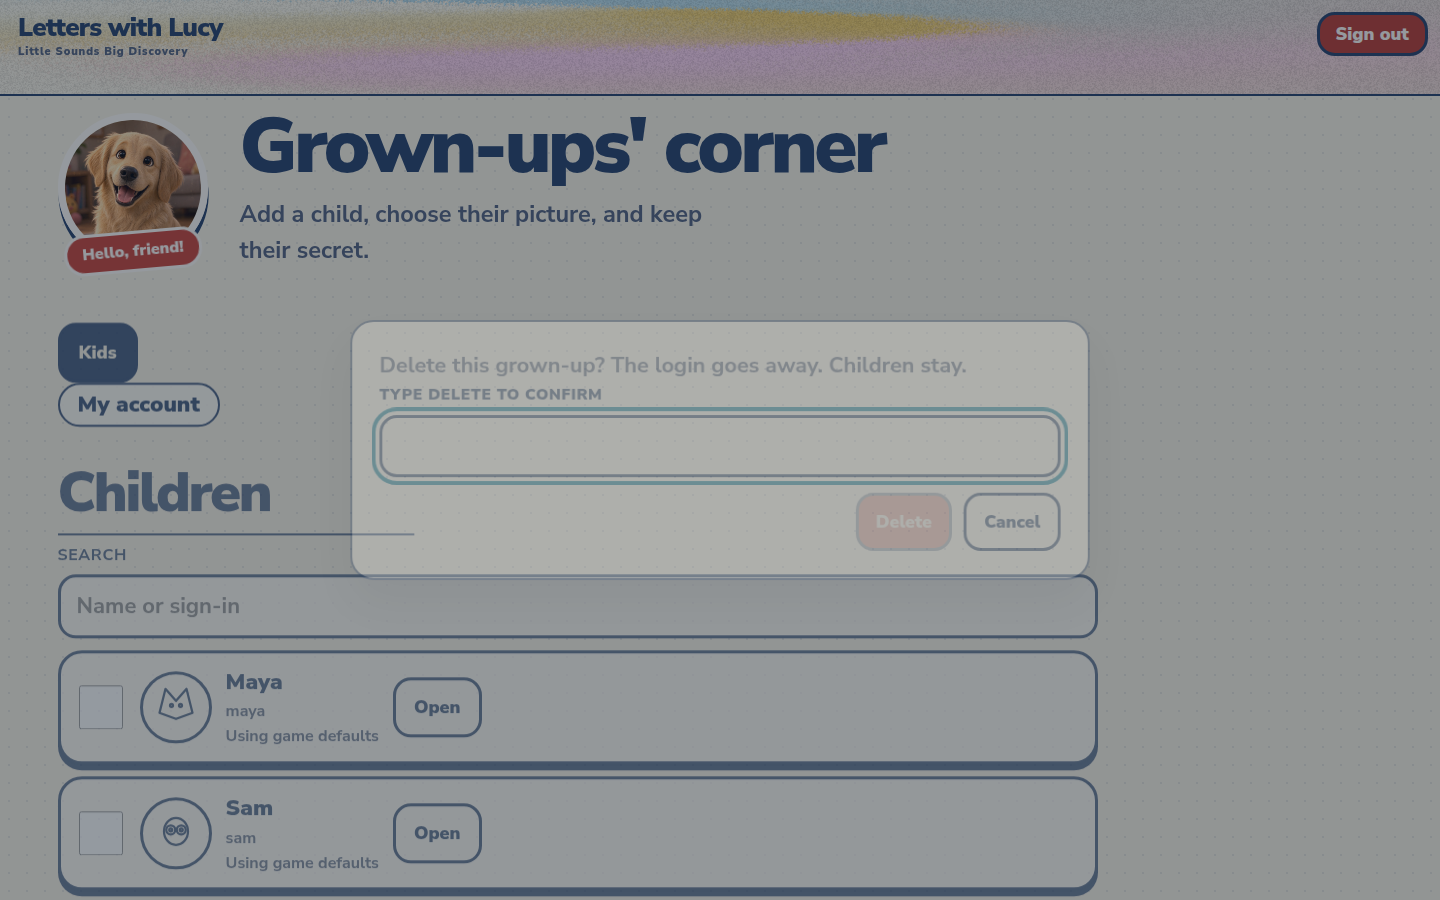
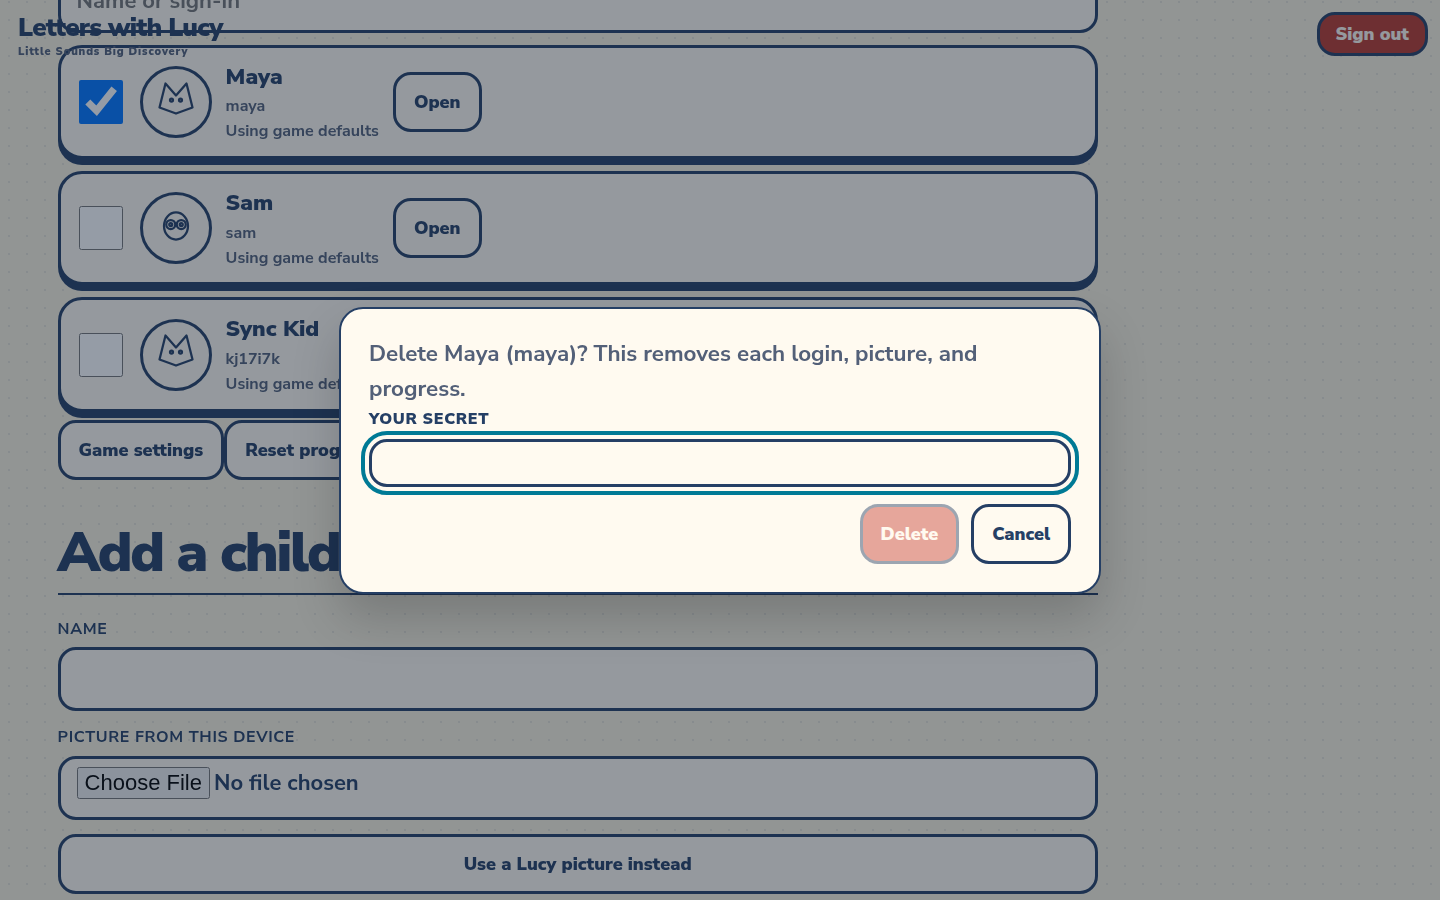
Record the password confirm and the layout check.
Ribbon Road's pink home and the 26-letter line match 0d01cc6. The pass report lists the secret step and the suites that passed.

diff --git a/reports/call-list-pass.md b/reports/call-list-pass.md
@@ -14,7 +14,7 @@ There is no Brandy profile and no Brandy auth user, before or after. Username an
 | My account | done | Own page at `grown-ups/account.html`. Name, sign-in name, secret, Lucy picture or upload, own progress, one confirm to reset. |
 | Game settings inside Kids | done | Same cream page. The label says `Editing: game defaults` or the children's names. SATPIN and vowels are the letter presets. |
 | Sign out | done | One fixed top-right control on grown-up pages. At 390 and 1440 it sits at y=12, 44px tall, and does not cover another button. It returns to `grown-ups/index.html`. |
-| Delete confirm | done | The phrase box is above Delete. Delete stays disabled until the typed value is `delete`. |
+| Delete confirm | done | Replaced in the risky-actions add-on. The password field is above the button. The button stays disabled until a secret is typed. |
 | Six Lucy pictures | done | garden, nap, mail, leap, wave, nudge. Square, face-centered, 256px, offered offline. Upload still works. Spares are not offered. |
 | Header picture | done | Narrow picture only. Theme chooser stays where it was. A child's picture opens a sheet that does not edit a name. A grown-up's picture links to My account. |
 | Layout picker | deferred | Bradley said leave it. Section 7 picker changes are not in this build. |
@@ -51,7 +51,9 @@ Children: **6 hours after sign-in**, from `session_marks.started_at`. Activity d
 - `ff8ac16` Add the cream kids desk, six Lucy pictures, and My account.
 - `9bab0ec` Play the three approved wrong-answer lines in turn.
 - `07c6524` Cover call-list permissions, session clocks, and reset epochs.
-- The commit that adds this report is the last one on `cursor/home-flow-ribbon` for this pass.
+- `1a4b98b` Record the call-list pass, with screenshots.
+- `50c01fc` Ask for the grown-up's own secret before a risky account change.
+- The commit that records this add-on follows `50c01fc`.
 
 Base confirmed before the first commit: local `HEAD`, `origin/cursor/home-flow-ribbon`, and `origin/rollback/pre-call-list-2026-10-20-cursor` were all `0d01cc60678b78e552d6498a6dba6eea0f5b5a35`.
 
@@ -63,7 +65,9 @@ Kids portal: [390×844](call-list/portal-kids-390x844.png), [768×1024](call-lis
 
 Grown-ups, master only: [390×844](call-list/portal-grownups-390x844.png), [768×1024](call-list/portal-grownups-768x1024.png), [1440×900](call-list/portal-grownups-1440x900.png), [1180×820](call-list/portal-grownups-1180x820.png), [1440×1080](call-list/portal-grownups-1440x1080.png), [1920×1080](call-list/portal-grownups-1920x1080.png).
 
-Also: [six pictures](call-list/portal-pictures.png), [game settings for Maya](call-list/portal-game-settings.png), [delete confirm at 390](call-list/portal-delete-confirm-390.png), [delete confirm at 1440](call-list/portal-delete-confirm-1440.png), [pick a child first](call-list/portal-need-pick.png), [My account](call-list/my-account-1440.png), [reset my progress](call-list/my-account-reset.png).
+Also: [six pictures](call-list/portal-pictures.png), [game settings for Maya](call-list/portal-game-settings.png), [password confirm at 390](call-list/portal-password-confirm-390.png), [password confirm at 1440](call-list/portal-password-confirm-1440.png), [password typed, Delete enabled](call-list/portal-password-ready-1440.png), [pick a child first](call-list/portal-need-pick.png), [My account](call-list/my-account-1440.png), [current secret](call-list/my-account-current-secret-1440.png), [reset my progress at 390](call-list/my-account-password-reset-390.png), [reset my progress at 1440](call-list/my-account-password-reset-1440.png).
+
+The earlier typed-word delete shots are the same files as the password confirm at 390 and 1440. The button in those shots is the faded Delete, because the secret field is empty.
 
 Game header: [390×844](call-list/game-chip-390x844.png), [1180×820](call-list/game-chip-1180x820.png), [1440×1080](call-list/game-chip-1440x1080.png), [1920×1080](call-list/game-chip-1920x1080.png), [grown-up chip 1180×820](call-list/game-chip-grownup-1180x820.png).
 
@@ -77,8 +81,11 @@ Headless, Chrome:
 - `tests/accounts_merge.cjs`: reset epoch replaces an older round, a same epoch counts once, settings stay, a merge with no epoch stays a union.
 - `tests/accounts_session.cjs`: fake clock. Exactly 30 minutes idle expires a grown-up. A click inside the window keeps them in. A child expires at 6 hours.
 - `tests/portal_rules.cjs`, `tests/home_flow.cjs`, `tests/grown_ups_smoke.cjs`: pass, including phone, tablet, chromebook, whiteboard, reduced motion, and dark.
-- `tests/call_list_live.cjs`: anonymous 401, Ada is not master, create-grownup 403 `not-master`, disposable child progress ok, stranger `not-linked`, child token 403 `not-allowed`, peek limit `inactivity`, child deleted by id.
-- Full suites: `accounts_sync`, `browser_smoke` (18), `runtime_smoke` (letter-post, moonboat, silk), `motion_smoke` (12), `silk_smoke`, `confetti_smoke` (18), `grown_ups_runtime`. All passed.
+- `tests/call_list_live.cjs`: anonymous 401, Ada is not master, create-grownup 403 `not-master`, disposable child progress ok, stranger `not-linked`, child token 403 `not-allowed`, peek limit `inactivity`. A delete or a sign-in rename without the grown-up's secret is 403 `password`, and the child can still sign in. Three disposable children were deleted in one call after the secret matched.
+- `tests/risky_actions.cjs`: the confirm is a password, the button is not a typed word, Ribbon Road's config matches `0d01cc6`, and no selection cap is in the page, the function, or the new SQL.
+- `tests/accounts_merge.cjs` and `tests/accounts_session.cjs` passed again.
+- Full suites, run again after the password change: `accounts_sync`, `browser_smoke` (18), `runtime_smoke` (letter-post, moonboat, silk), `motion_smoke` (12), `silk_smoke`, `confetti_smoke` (18), `grown_ups_runtime`. `ALL_SUITES_OK`. `home_flow` and `grown_ups_smoke` passed, including phone, tablet, chromebook, whiteboard, reduced motion, and dark.
+- The voice inventory was not run again. The three wrong-answer files were not changed.
 
 Ribbon Road loads `v1-letter-post/app.js`. Moonboat has its own copy. Both got the same wrong-answer hook. `new Audio(` stays one call site.
 
@@ -108,7 +115,7 @@ Always-latest raw.githack for `cursor/home-flow-ribbon`:
 - https://raw.githack.com/CryptoBrad89/childrens-learning-game/cursor/home-flow-ribbon/grown-ups/index.html
 - https://raw.githack.com/CryptoBrad89/childrens-learning-game/cursor/home-flow-ribbon/grown-ups/account.html
 
-Supabase project `shkmpxaejiuqzejsdwyr` only. The edge function `accounts-manage` is deployed there with JWT verification on. The git migration is `supabase/migrations/20261021043000_call_list.sql`. The live database has that SQL applied in four idempotent batches (`call_list`, `call_list_roster`, `call_list_sessions`, `call_list_merge`) because one payload was split. Old migrations were not edited.
+Supabase project `shkmpxaejiuqzejsdwyr` only. The edge function `accounts-manage` is deployed there with JWT verification on. The call-list git migration is `supabase/migrations/20261021043000_call_list.sql`. The live database has that SQL applied in four idempotent batches (`call_list`, `call_list_roster`, `call_list_sessions`, `call_list_merge`) because one payload was split. The password compare is `supabase/migrations/20261021063000_risky_actions.sql`, applied as `risky_actions`. Old migrations were not edited.
 
 ## Design tools
 
@@ -124,8 +131,46 @@ Supabase project `shkmpxaejiuqzejsdwyr` only. The edge function `accounts-manage
 
 The direction and the mock live in the project store, not in git. Existing shader and motion credits in the game stay inside their licenses.
 
+## Layout check against 0d01cc6
+
+`v4-silk-thread/config.js` is the same file as `0d01cc60678b78e552d6498a6dba6eea0f5b5a35`, including the line “Scroll for all 26 letters ↓”. The pink Ribbon Road home and the large portrait are that commit. The layout picker, the three worlds, and the letter rows were not restyled and were not reverted.
+
+The header change that stays is the account picture. It is inserted before `.controls`. The theme menu is still the select inside that control group. A grown-up's picture opens My account. A child's picture does not. Wrong-answer clips, the portal, the six pictures, and the accounts stay.
+
+## Risky actions
+
+The grown-up re-enters their own secret. The Edge function calls `confirm_grownup_secret`, which compares the bcrypt hash sign-in already stores and does not write the user row. An empty or wrong secret returns 403 `password` and changes nothing. The secret is not stored and not logged. A count, a name, or a checkbox cannot skip it. The dialog lists who is affected. The only typed confirm is the secret. The button stays disabled until the field has something in it.
+
+### Caps
+
+No numeric cap on how many children or grown-ups one action can select was in the portal, the Edge function, or the database, so none was deleted. The server accepts the whole id list. The page sends that list in groups of 25 so a long selection still finishes. That group size is not shown. Refusing Brandy's row, or the master's own row, is not a count cap. The learner-state size limit was left as it was.
+
+### Behind the secret
+
+- Delete a child, one or many
+- Delete a grown-up, one or many
+- Reset progress, including Reset my progress, one or many
+- Change or reset someone else's secret
+- Unlink a child
+- Move a child to another grown-up
+- Create a grown-up login
+- Change a child's sign-in name
+- Change your own sign-in name or secret. One current-secret field. There is no second box to retype the new secret.
+
+The portal has no editor for another grown-up's sign-in name. Creating that login already asks for the signed-in grown-up's secret.
+
+### Does not ask
+
+Linking a child, adding a child, game settings, a display name, a picture, and the device-only Reset all settings dialog.
+
+### Live check
+
+Before the password compare, Ada's `last_sign_in_at` was `2026-10-21 05:33:04.530365+00`. A matching compare returned true and a wrong compare returned false. The timestamp was still that value. Later test sign-ins are real sign-ins, so they do move it.
+
+Brandy profiles: 0. Brandy auth users: 0. Masters: 0. Disposable children from the live password test were removed by the ids the server returned. Nothing of hers was created.
+
 ## Not finished
 
 - pstack was not configured. It needs Bradley's budget choice.
-- No standing master remains, because Brandy is not in this database and the disposable master was removed.
-- Grown-ups screenshots predate the bulk-delete checkboxes.
+- No standing master remains, because Brandy is not in this database and was not created.
+- Grown-ups list screenshots still predate the bulk-delete checkboxes. The password confirm shots are new.
